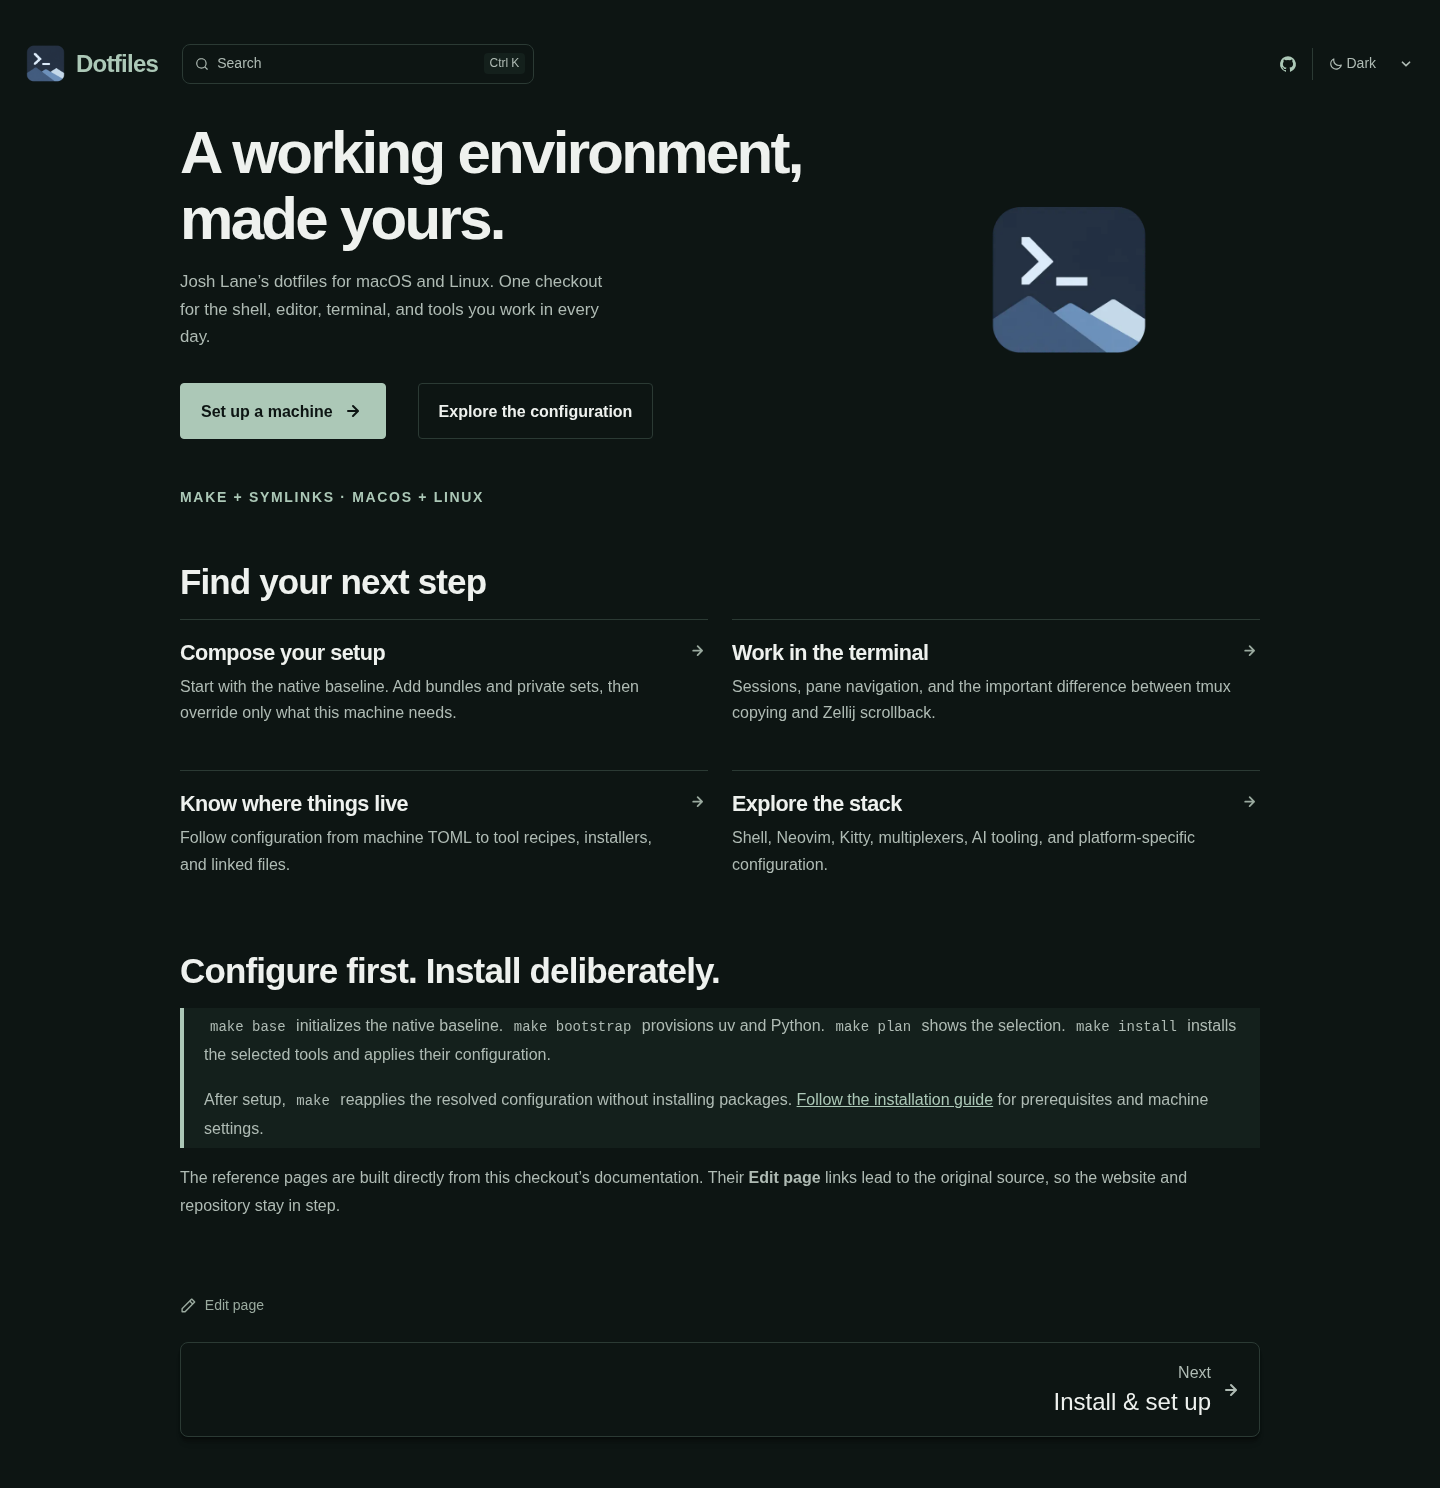
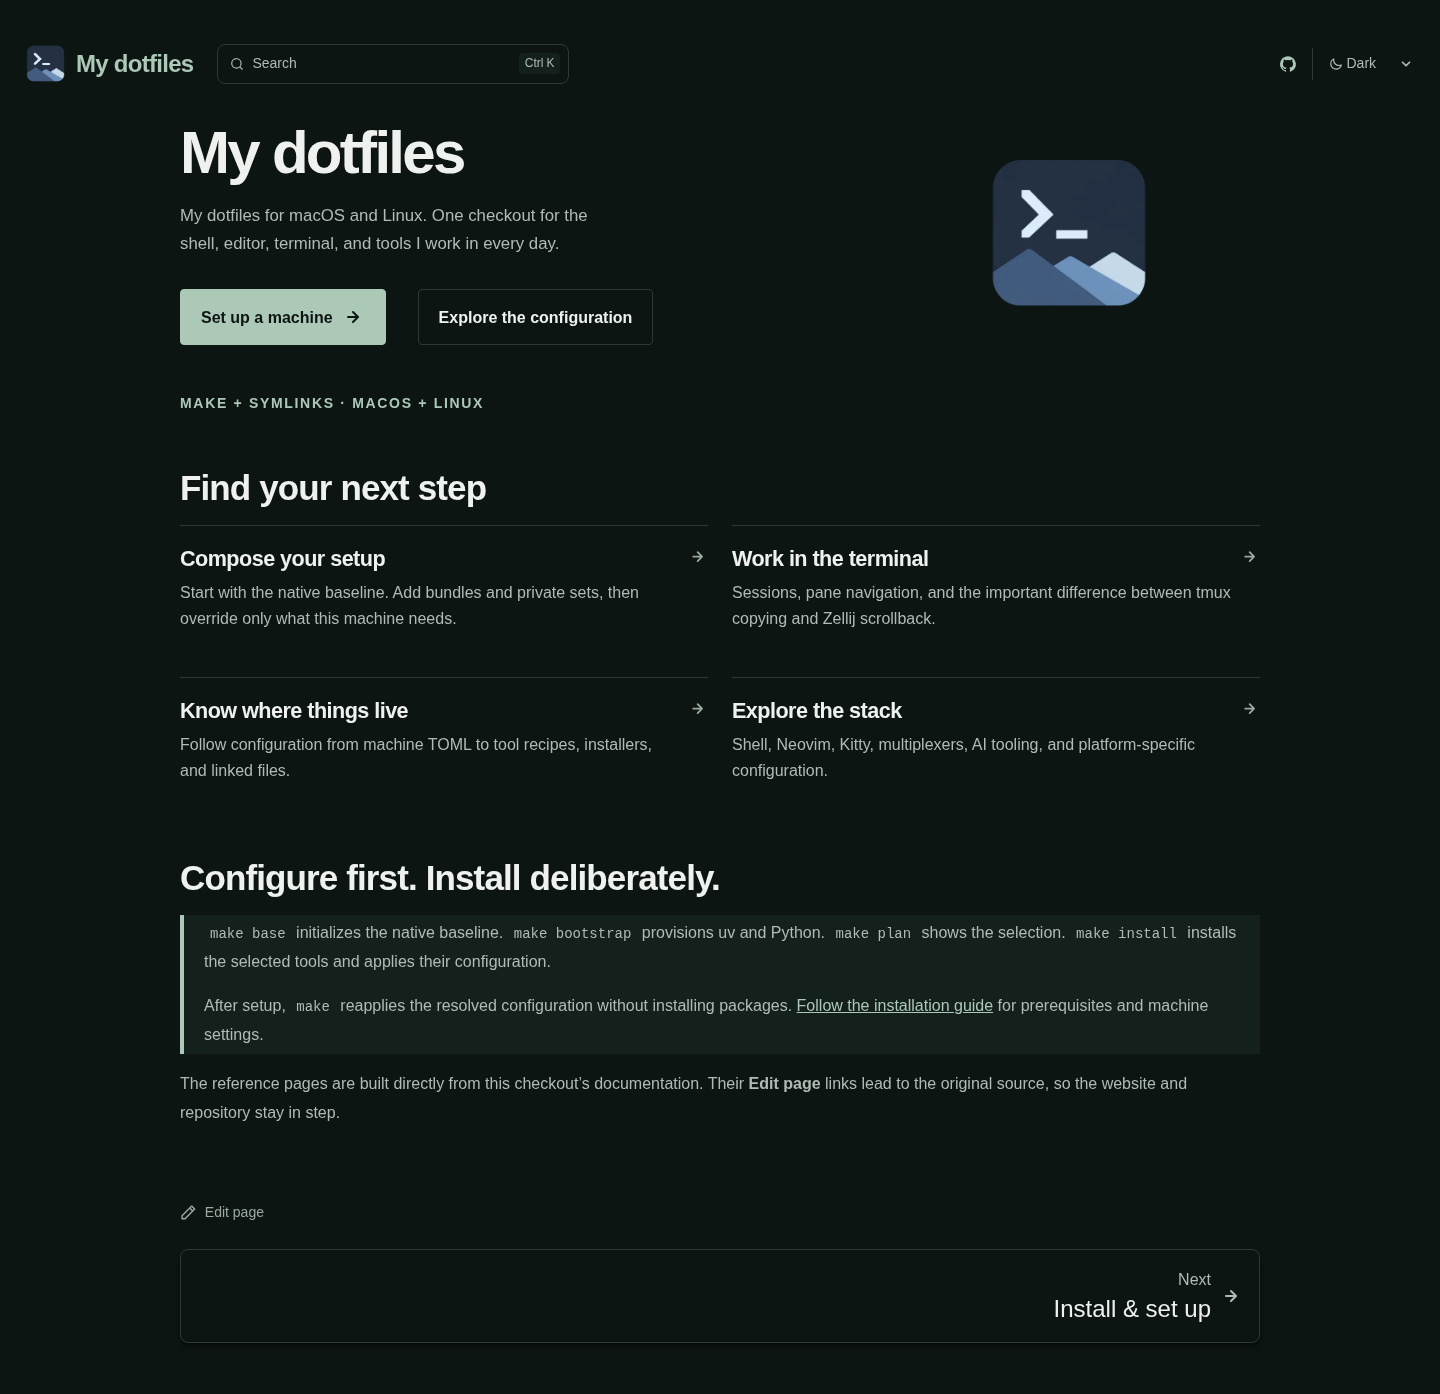
docs(site): describe my dotfiles in the first person
Detected-By: user

diff --git a/website/DESIGN.md b/website/DESIGN.md
@@ -1,8 +1,8 @@
 # Dotfiles documentation
 
-The established task is to help Josh and readers install, understand, and use this dotfiles checkout. Installation, configuration composition, and terminal copying must be easy to find. Existing Markdown remains authoritative; reference pages are generated, not independently maintained.
+This site documents my dotfiles and helps readers install, understand, and use the checkout. Use first-person language for personal descriptions, such as “My dotfiles,” rather than referring to me in the third person. Installation, configuration composition, and terminal copying must be easy to find. Existing Markdown remains authoritative; reference pages are generated, not independently maintained.
 
-The established visual identity is the Nord terminal/mountain mark in `../docs/brand/README.md`. Preserve that image and its transparency. The owner requested the same theme as lanej.io. Its `STYLE.md` and `assets/css/site.css` at revision `7c90d7406cfb111b8be0fdbfb8c9009468c1bad3` own the reference: deep green background, pale sage accents, system sans-serif, modest heading weights, and thin rules. `src/styles/custom.css` adapts those tokens to Starlight’s navigation, search, and components. The personal site is dark-only; the light palette is a documentation-specific adaptation, with the existing system preference and theme switcher retained. The Nord project logo keeps its original colors. No revised screenshots have been approved by the owner.
+The established visual identity is the Nord terminal/mountain mark in `../docs/brand/README.md`. Preserve that image and its transparency. Match my personal website, lanej.io. Its `STYLE.md` and `assets/css/site.css` at revision `7c90d7406cfb111b8be0fdbfb8c9009468c1bad3` own the reference: deep green background, pale sage accents, system sans-serif, modest heading weights, and thin rules. `src/styles/custom.css` adapts those tokens to Starlight’s navigation, search, and components. The personal site is dark-only; the light palette is a documentation-specific adaptation, with the existing system preference and theme switcher retained. The Nord project logo keeps its original colors. Revised screenshots remain subject to review.
 
 Prefer readable, bounded prose and direct navigation over decoration. The landing page offers four meaningful destinations and a compact installation overview. Reference pages retain technical detail and horizontally scrollable tables/code. A long reference document is intentional; a duplicated manual is not.
 
